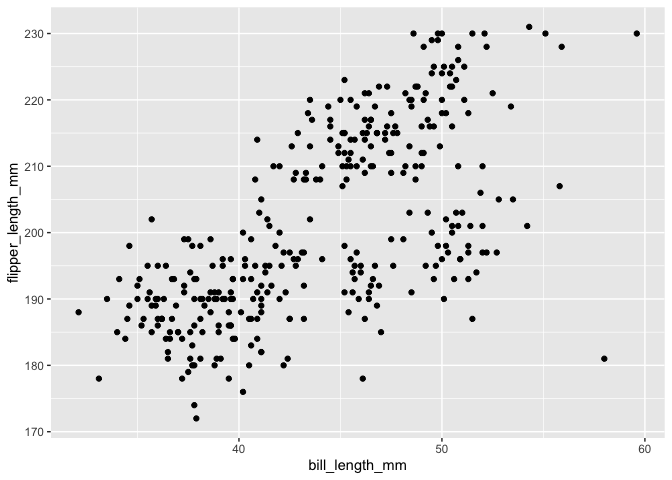
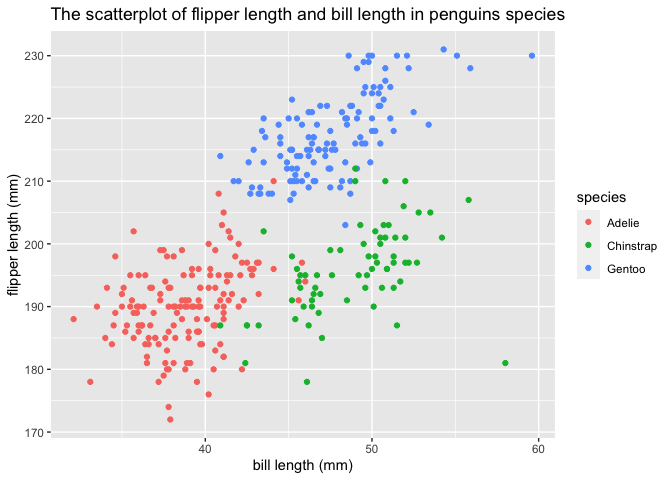
Modify some details of code

diff --git a/p8105_hw1_wb2366.md b/p8105_hw1_wb2366.md
@@ -1,6 +1,17 @@
 p8105\_hw1\_wb2366
 ================
 
+## Problem1
+
+-   Create a data frame comprised of:
+    -   a random sample of size 10 from a standard Normal distribution
+    -   a logical vector indicating whether elements of the sample are
+        greater than 0
+    -   a character vector of length 10
+    -   a factor vector of length 10, with 3 different factor “levels”
+
+Create a data frame
+
 ``` r
 library(tidyverse)
 ```
@@ -16,15 +27,6 @@ library(tidyverse)
     ## x dplyr::filter() masks stats::filter()
     ## x dplyr::lag()    masks stats::lag()
 
-## Problem1
-
--   Create a data frame comprised of:
-    -   a random sample of size 10 from a standard Normal distribution
-    -   a logical vector indicating whether elements of the sample are
-        greater than 0
-    -   a character vector of length 10
-    -   a factor vector of length 10, with 3 different factor “levels”
-
 ``` r
 example_df = tibble(
   vec_df = rnorm(10),
@@ -36,6 +38,8 @@ example_df = tibble(
 
 **Try to take the mean of each variable in your dataframe. What works
 and what doesn’t?**
+
+Try to take the mean of each variable
 
 ``` r
 mean_vec_df = mean(pull(example_df, vec_df))
@@ -62,6 +66,8 @@ logical, character, and factor variables (please show this chunk but not
 the output). What happens, and why? Does this help explain what happens
 when you try to take the mean?**
 
+Take the mean of converted variables
+
 ``` r
 con_mean_vec_logical = mean(as.numeric(pull(example_df, vec_logical)))
 con_mean_vec_char = mean(as.numeric(pull(example_df, vec_char)))
@@ -82,7 +88,7 @@ couldn’t be converted in to numeric which is still N/A.
 
 ## Problem2
 
-This chunk is used for loading penguins dataset
+Load penguins dataset
 
 ``` r
 data("penguins", package = "palmerpenguins")
@@ -125,14 +131,22 @@ Year is a integer variable. The range for the years variable is from
 
 **Answer:** mean of flipper length = 200.9152047
 
-**Make a scatterplot of flipper\_length\_mm (y) vs bill\_length\_mm
-(x)**
+Make a scatterplot of flipper length and bill length in penguins species
 
 ``` r
 library(ggplot2)
-ggplot(data = penguins, aes(x = bill_length_mm, y = flipper_length_mm)) + geom_point()
+ggplot(data = penguins, aes(x = bill_length_mm, y = flipper_length_mm, color = species)) + 
+  geom_point() + labs(title = "The scatterplot of flipper length and bill length in penguins species", x = "bill length (mm)", y = "flipper length (mm)")
 ```
 
     ## Warning: Removed 2 rows containing missing values (geom_point).
 
 ![](p8105_hw1_wb2366_files/figure-gfm/scatterplot-1.png)<!-- -->
+
+``` r
+ggsave("The scatterplot of flipper length and bill length in penguins species.pdf")
+```
+
+    ## Saving 7 x 5 in image
+
+    ## Warning: Removed 2 rows containing missing values (geom_point).
